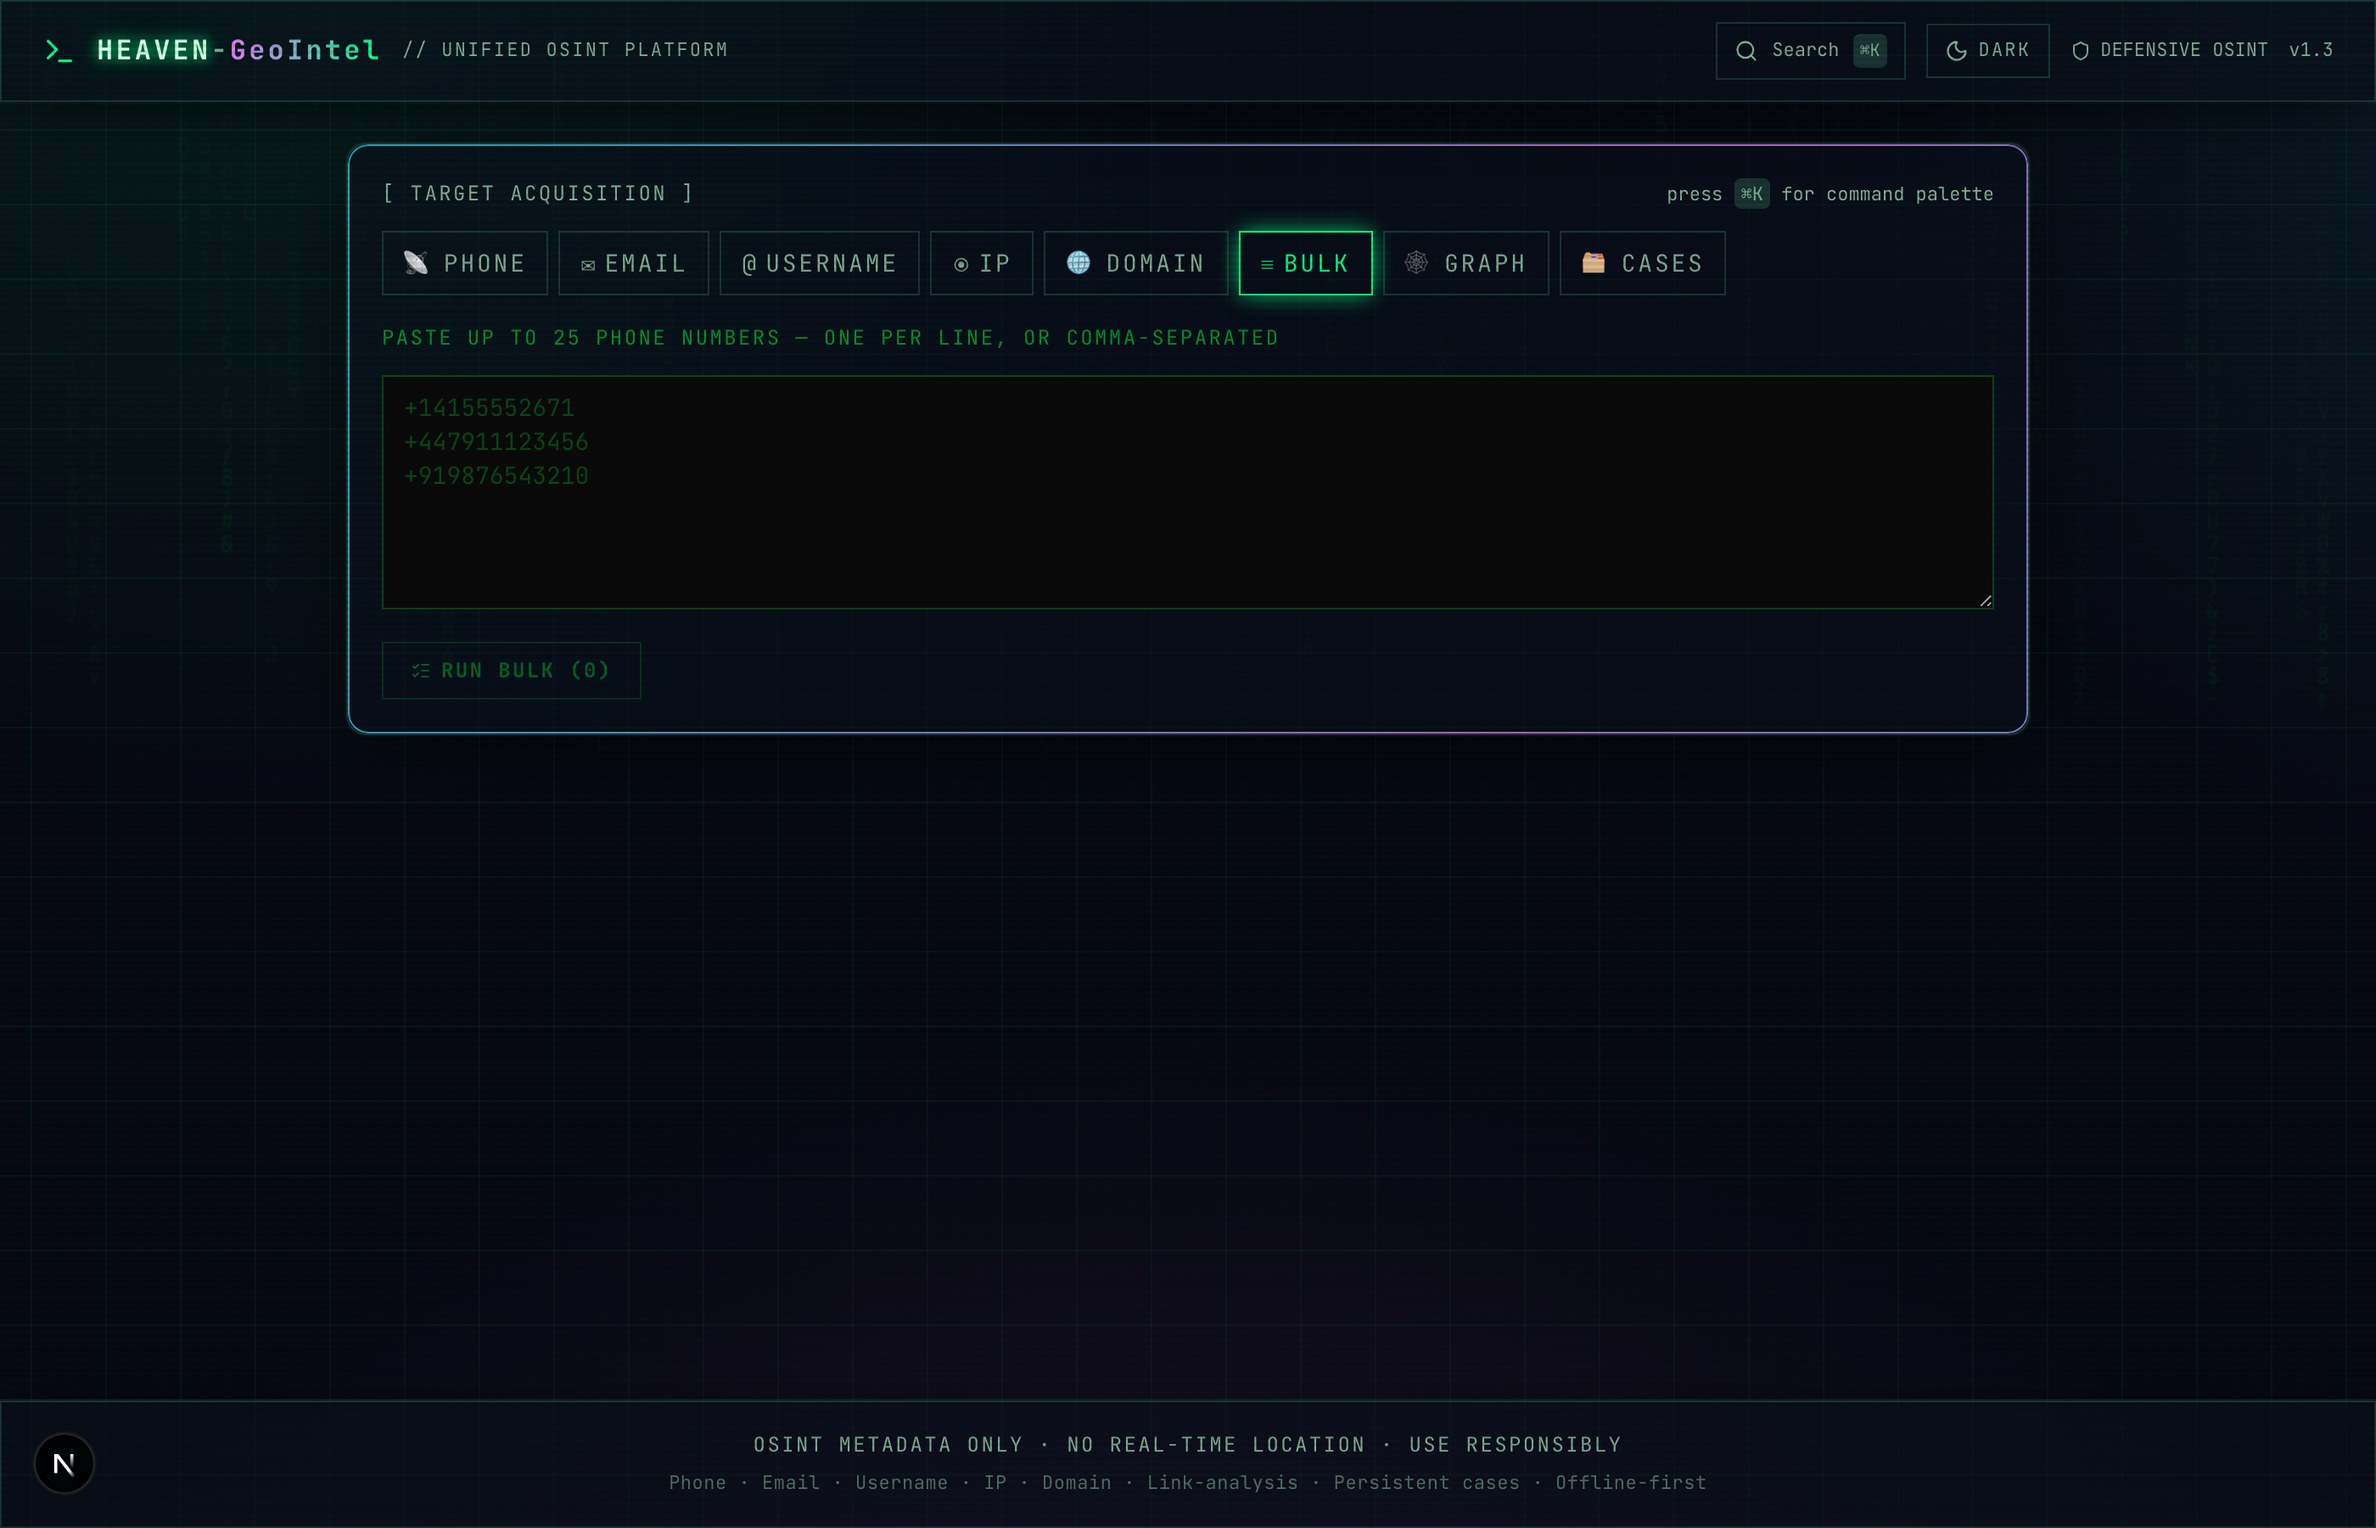
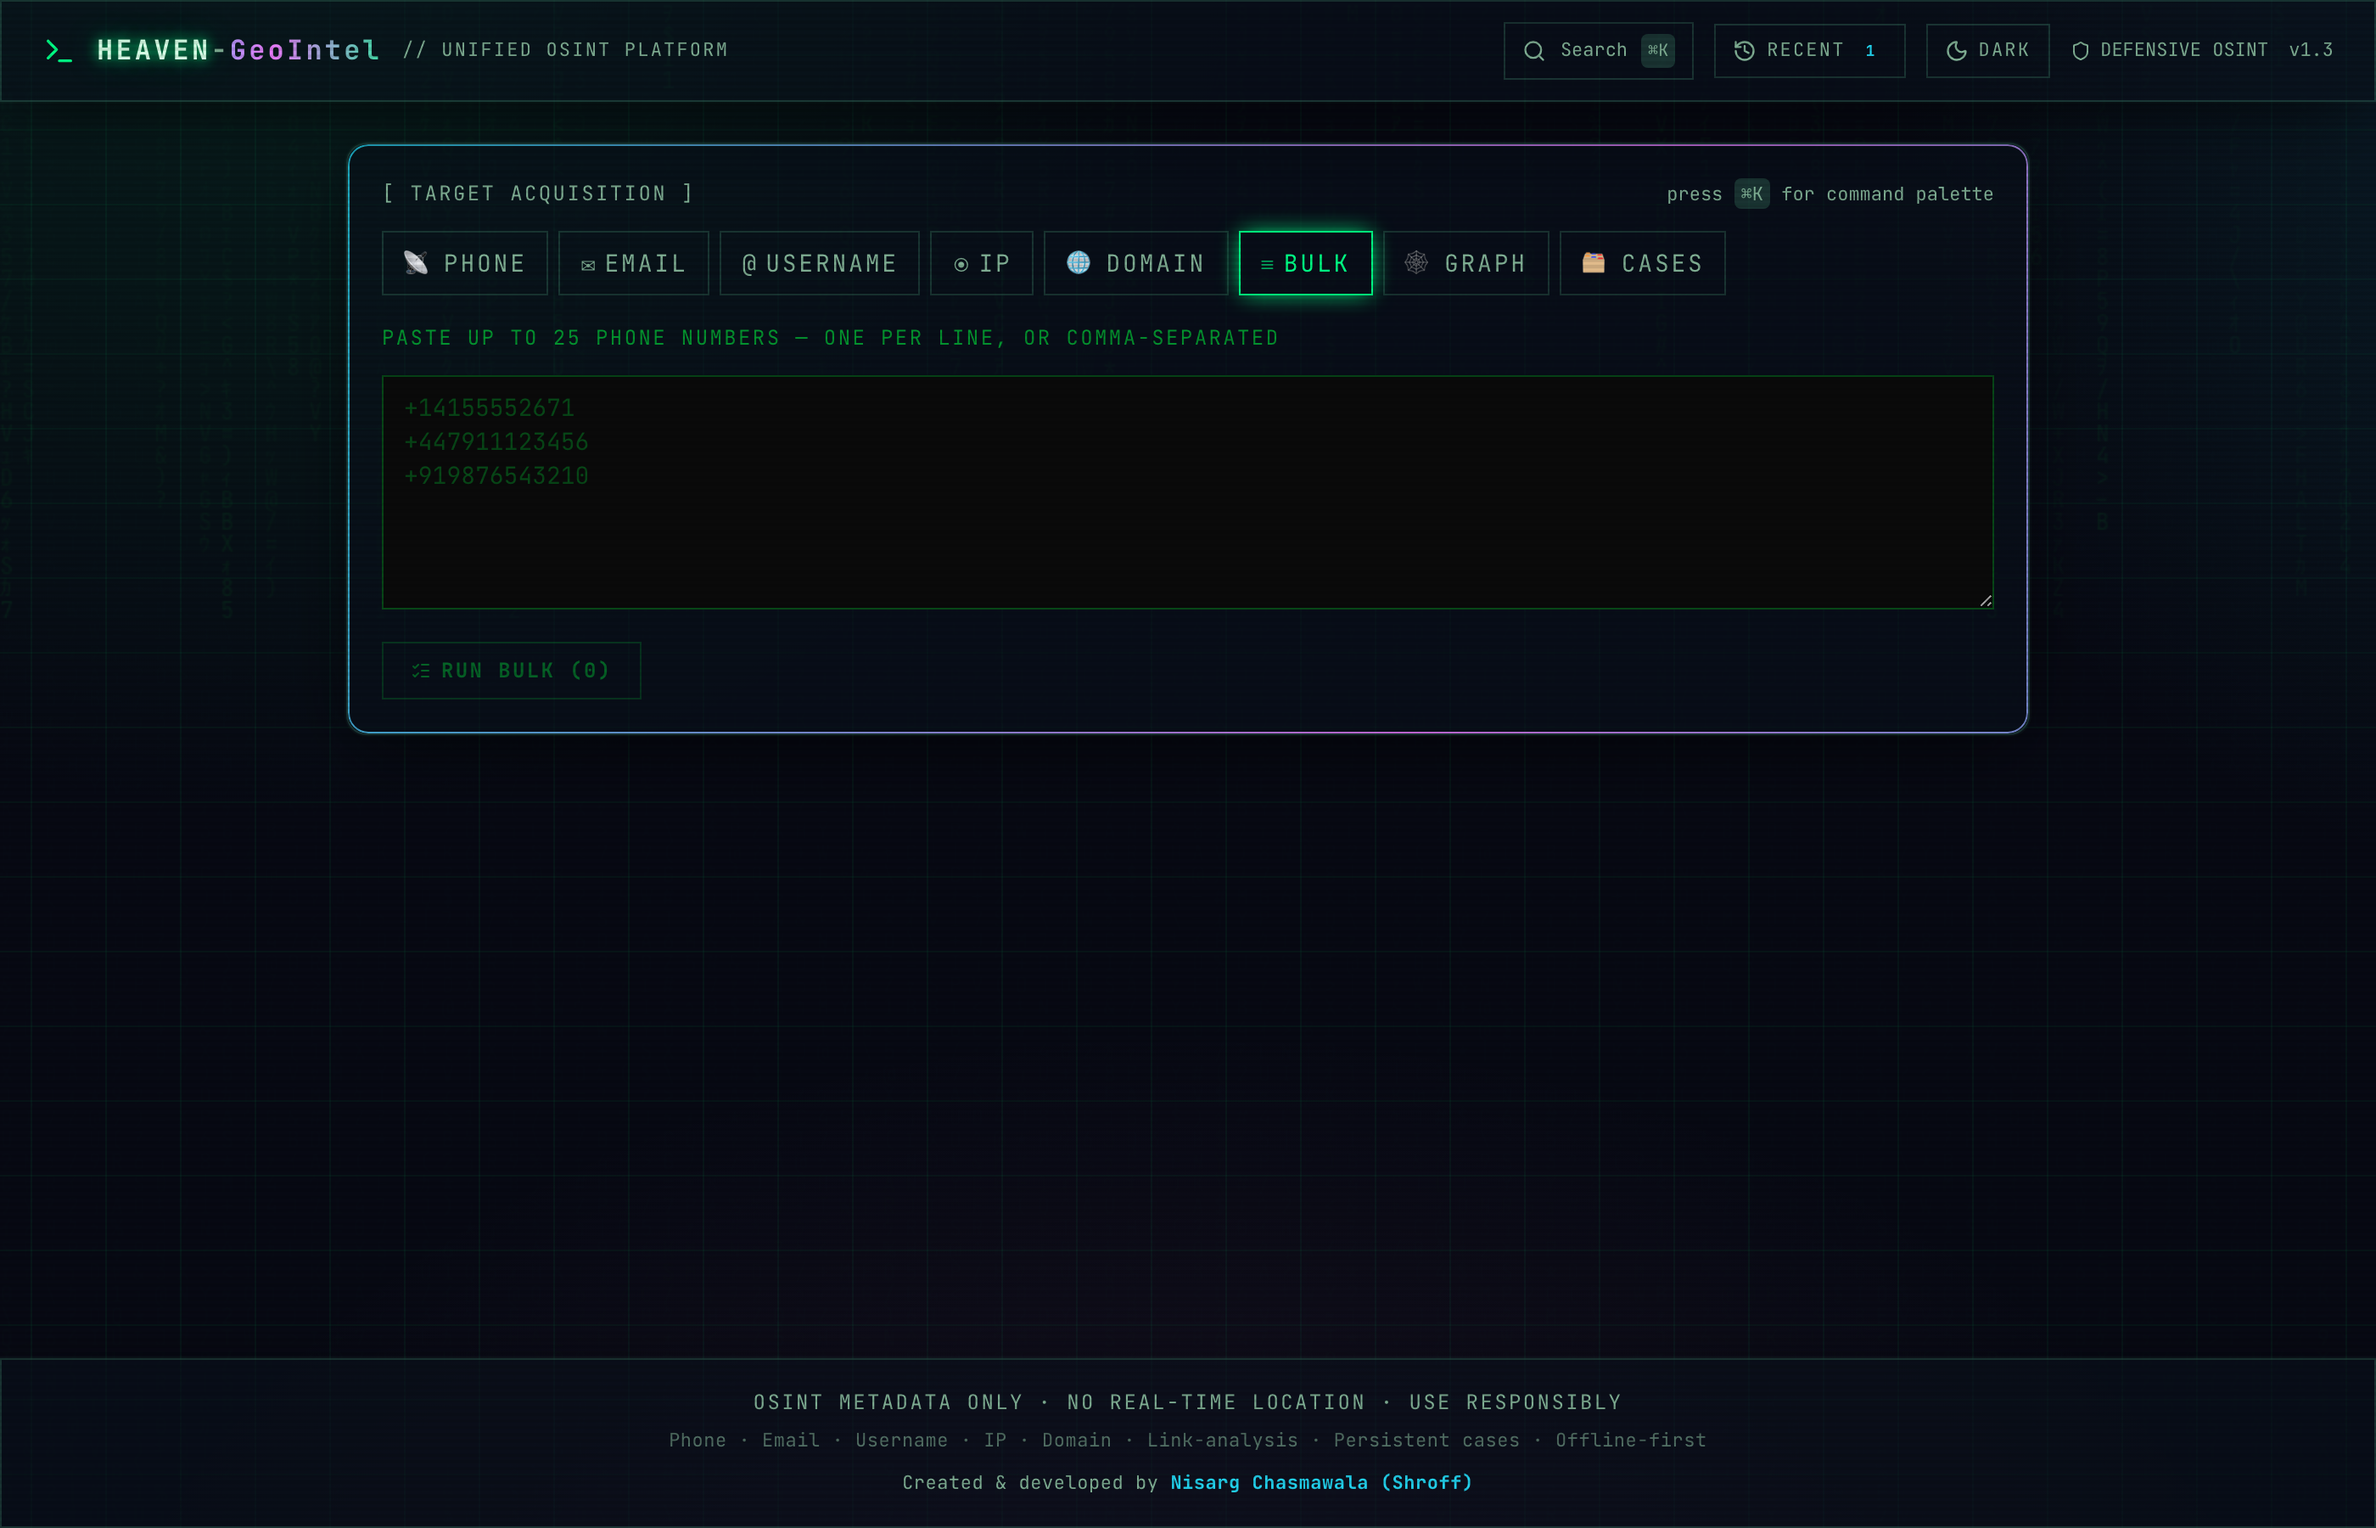
Refactor code structure for improved readability and maintainability

Changed region(s): [[0.3107, 0.9022, 0.6836, 0.9956], [0.6836, 0.0, 0.8079, 0.0622]]

diff --git a/README.md b/README.md
@@ -35,8 +35,8 @@
 <td width="50%"><img src="./docs/screenshots/bulk-mode.png" alt="Bulk lookup mode" width="100%"/></td>
 </tr>
 <tr>
-<td width="50%"><img src="./docs/screenshots/dork-generator.png" alt="Dork generator with category groups and engine selector" width="100%"/></td>
-<td width="50%"><img src="./docs/screenshots/osint-pivots.png" alt="OSINT pivot matrix with access-tier filter chips" width="100%"/></td>
+<td width="50%"><img src="./docs/screenshots/osint-pivots.png" alt="OSINT pivot matrix — deduplicated reverse-lookup, messaging, spam, carrier and search links" width="100%"/></td>
+<td width="50%"><img src="./docs/screenshots/breach-intel.png" alt="Credential breach search — one-click free breach-database lookups" width="100%"/></td>
 </tr>
 </table>
 

diff --git a/docs/screenshots/README.md b/docs/screenshots/README.md
@@ -5,8 +5,8 @@ The main README references the four PNGs in this folder:
 | Filename | What it shows |
 |----------|---------------|
 | `phone-results.png`  | Top of the phone-results dashboard — header, threat score, data-source strip |
-| `dork-generator.png` | The Dork Generator card — categories, hit-rate badges, engine selector |
 | `osint-pivots.png`   | The OSINT Pivot Matrix — filter chips + categorised links with access badges |
+| `breach-intel.png`   | The credential-breach card — one-click free breach-database lookups |
 | `bulk-mode.png`      | The BULK tab with sample phone numbers pasted in |
 
 ## Regenerate
